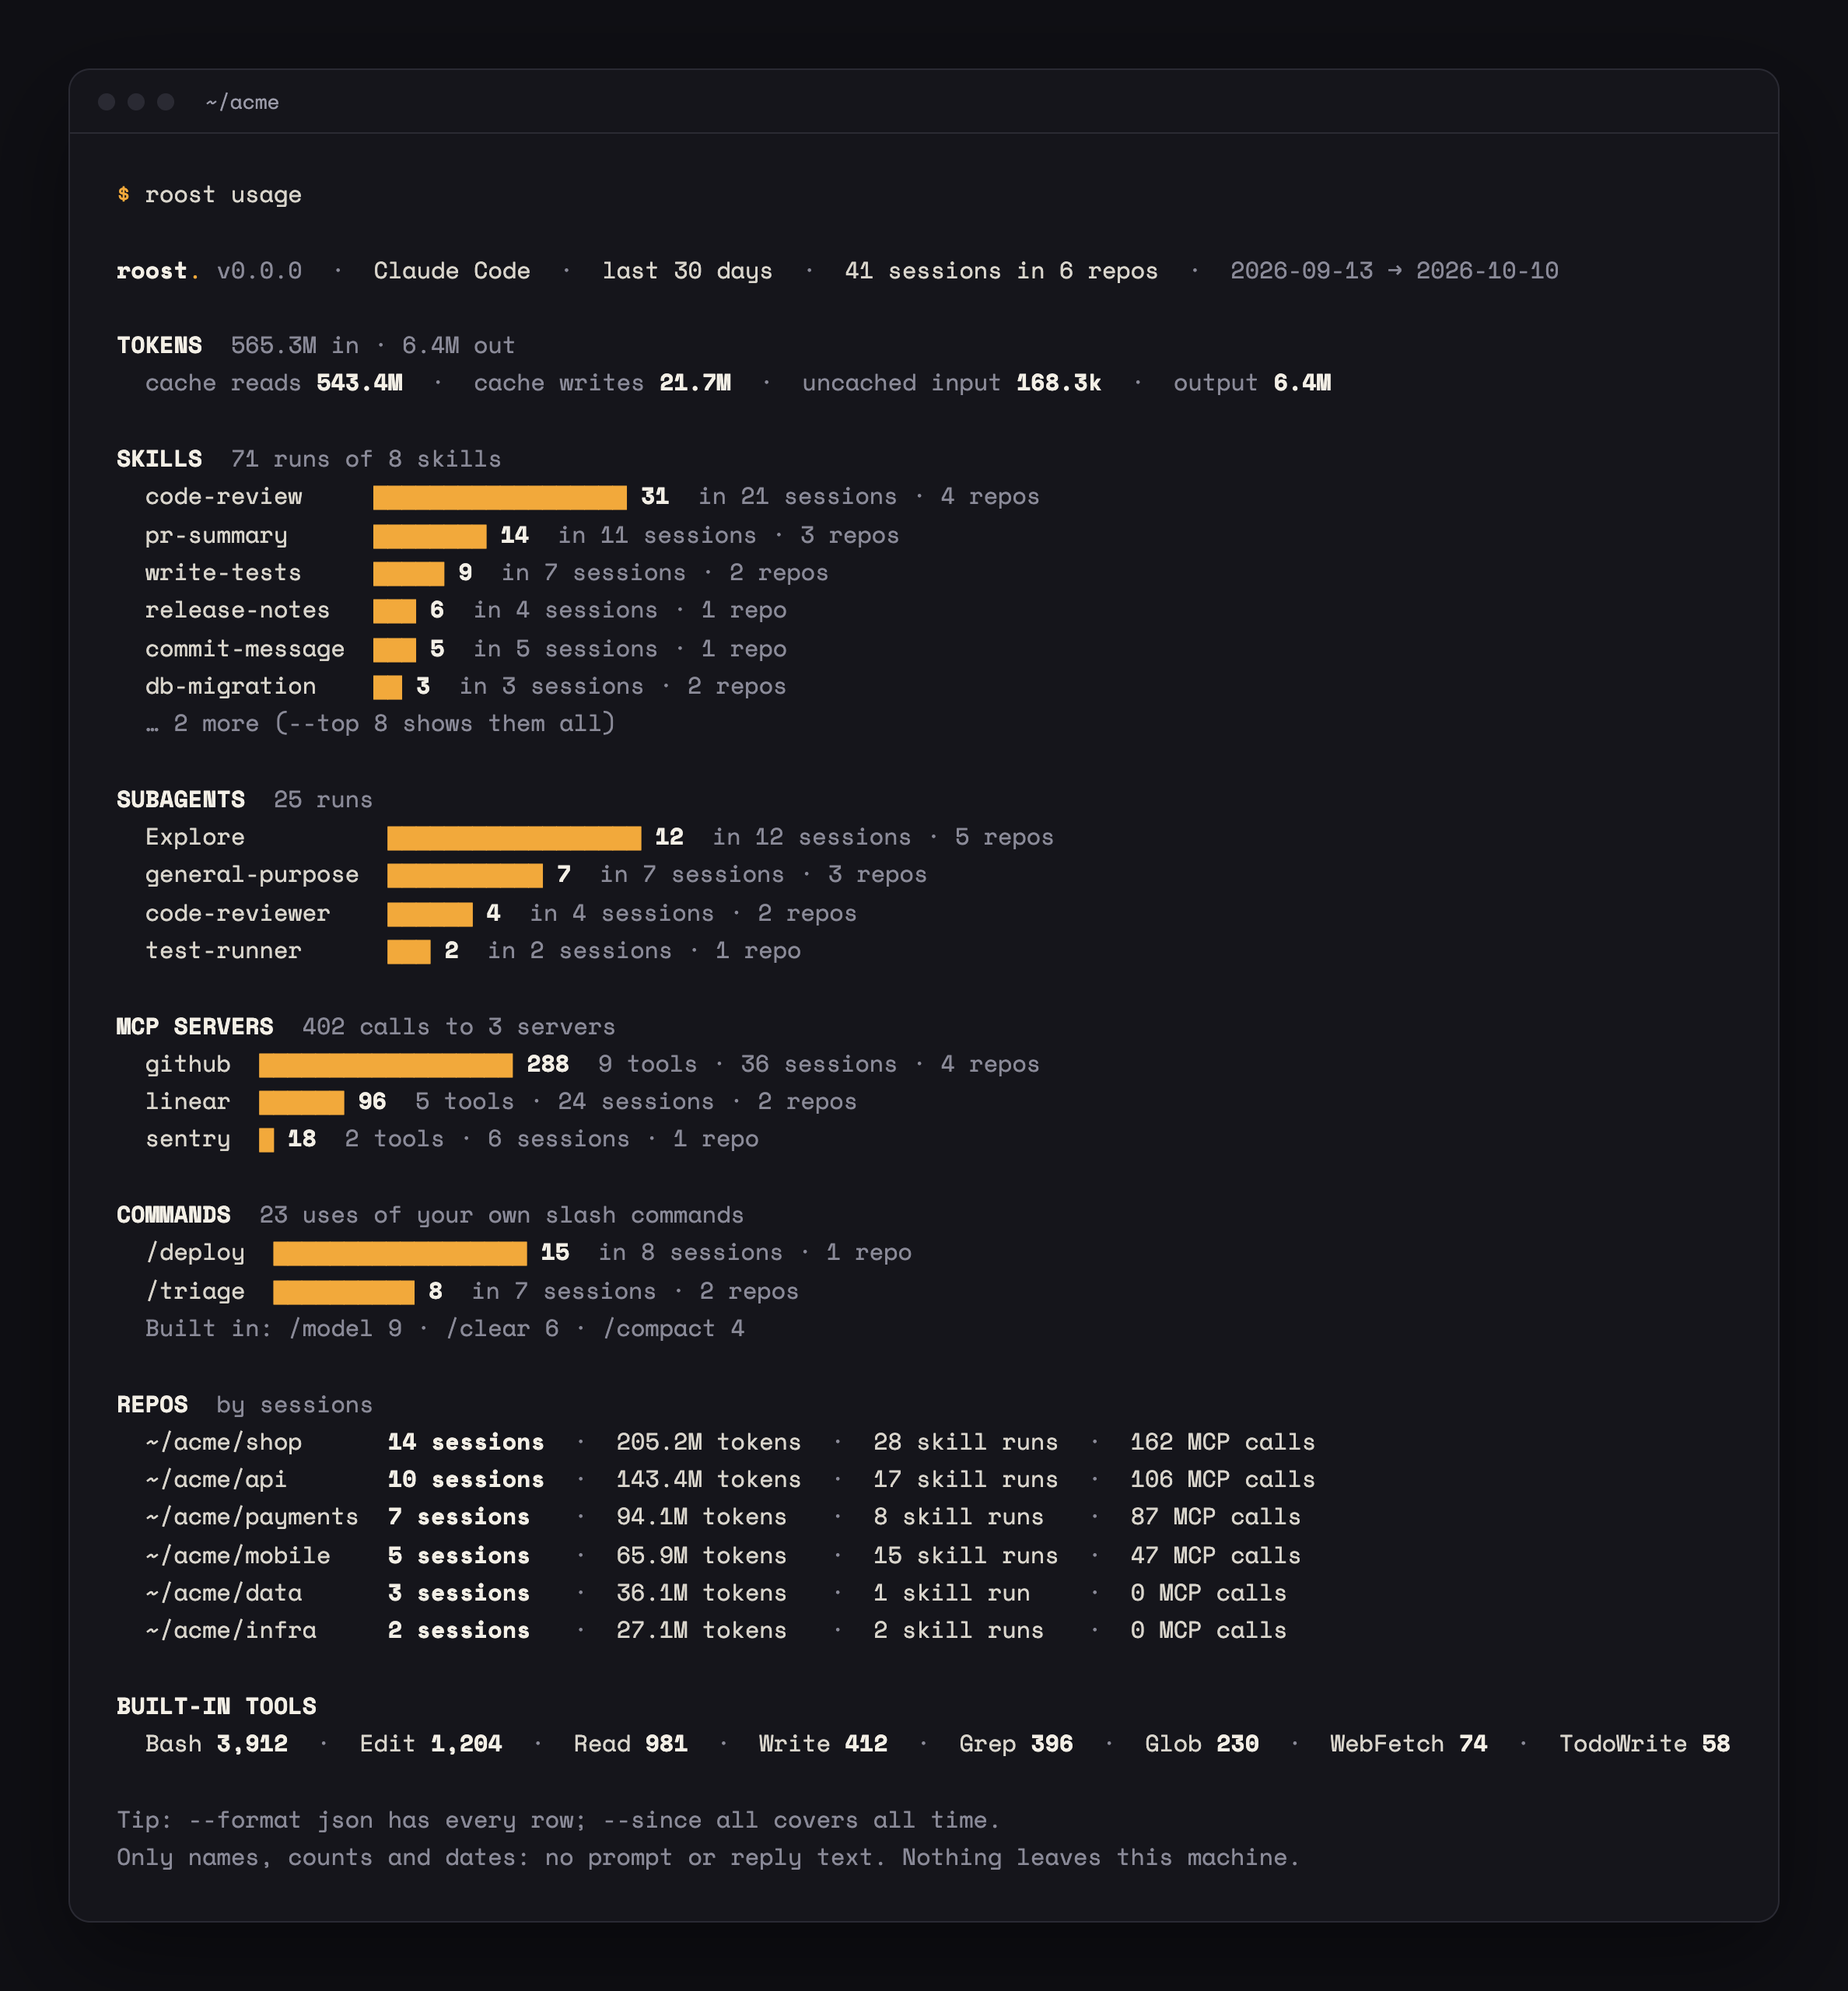
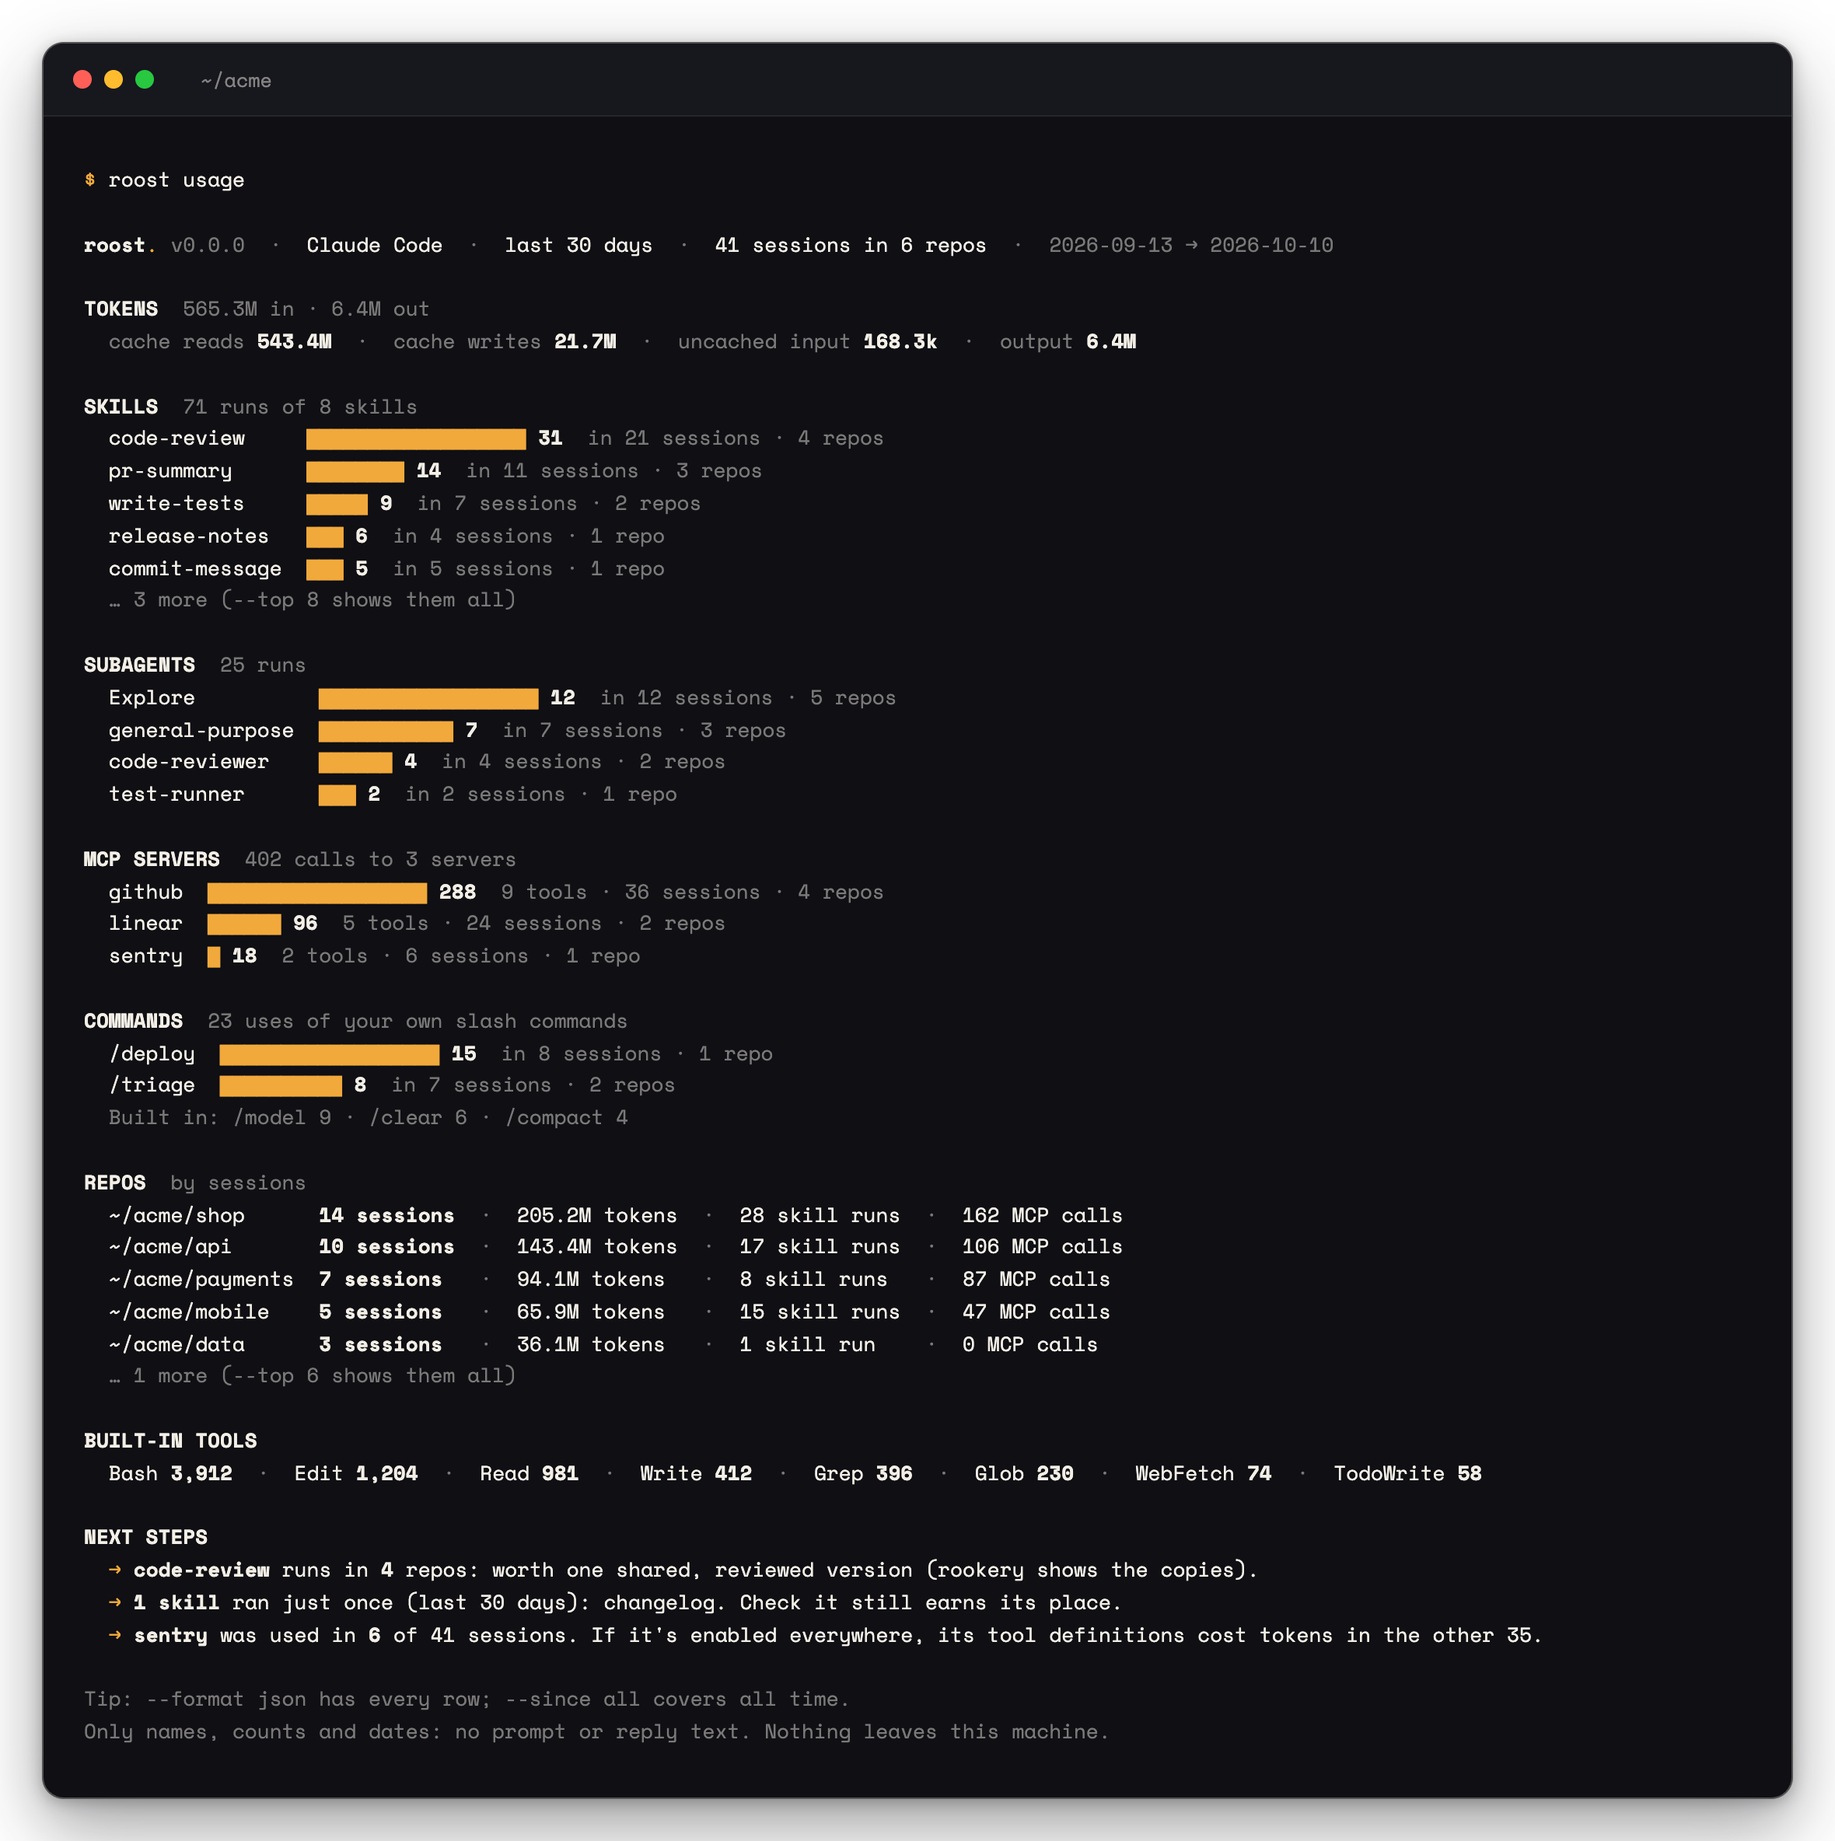
Screenshot in rookery's frame, and next steps in roost usage (#5)
- roost usage ends with NEXT STEPS, like rookery, worked out from the
  counts alone: the skill used in the most repos (one shared version;
  rookery shows the copies), skills that ran just once, and MCP servers
  few sessions used. Tested on the fixture and the demo team.
- terminal.png re-rendered with rookery's recipe, sampled from its PNG:
  transparent background with a soft shadow, ink window, #17171E title
  bar with traffic-light dots, bone text, dim at half opacity, 13px/1.6
  Space Mono, 2360 px wide. It now matches rookery's on GitHub's light
  and dark themes.

Claude-Session: https://claude.ai/code/session_01TzsCMEEmNPqdXjGm4VjKZp

diff --git a/src/report/usage.ts b/src/report/usage.ts
@@ -84,10 +84,38 @@ export function renderUsageTerminal(v: UsageView): string {
     h('BUILT-IN TOOLS');
     out.push('  ' + r.tools.slice(0, 8).map((x) => `${x.name} ${bold(x.count.toLocaleString('en-US'))}`).join(dim('  ·  ')) + (r.tools.length > 8 ? dim('  · …') : ''));
   }
+  const steps = nextSteps(r, v.window, { bold, dim, amber });
+  if (steps.length) {
+    h('NEXT STEPS');
+    for (const step of steps) out.push(`  ${amber('→')} ${step}`);
+  }
   if (r.skipped) out.push('', dim(`Skipped ${count(r.skipped, 'log line')} roost couldn't read.`));
   out.push('', dim('Tip: --format json has every row; --since all covers all time.'));
   out.push(dim('Only names, counts and dates: no prompt or reply text. Nothing leaves this machine.'), '');
   return out.join('\n');
+}
+
+/**
+ * A few plain observations from the counts, like rookery's next steps. Only what the data shows:
+ * the most widely used skill, skills that ran once, and MCP servers few sessions used.
+ */
+export function nextSteps(r: UsageReport, window: string, s: ReturnType<typeof style>): string[] {
+  const { bold, amber } = s;
+  const steps: string[] = [];
+  const shared = r.skills.filter((x) => x.repos >= 3).sort((a, b) => b.repos - a.repos || b.count - a.count)[0];
+  if (shared) {
+    steps.push(`${bold(shared.name)} runs in ${amber(bold(shared.repos))} repos: worth one shared, reviewed version (rookery shows the copies).`);
+  }
+  const once = r.skills.filter((x) => x.count === 1);
+  if (once.length) {
+    const names = once.slice(0, 3).map((x) => x.name).join(', ') + (once.length > 3 ? ` and ${once.length - 3} more` : '');
+    steps.push(`${amber(bold(count(once.length, 'skill')))} ran just once (${window}): ${names}. ${once.length === 1 ? 'Check it still earns its place.' : 'Check they still earn their place.'}`);
+  }
+  const quiet = r.mcp.filter((x) => x.sessions / r.sessions < 0.25).sort((a, b) => a.sessions - b.sessions)[0];
+  if (quiet && r.sessions >= 8) {
+    steps.push(`${bold(quiet.server)} was used in ${amber(bold(quiet.sessions))} of ${r.sessions} sessions. If it's enabled everywhere, its tool definitions cost tokens in the other ${r.sessions - quiet.sessions}.`);
+  }
+  return steps;
 }
 
 export function renderUsageJson(v: UsageView, agent: string): string {

diff --git a/test/demo.test.ts b/test/demo.test.ts
@@ -27,4 +27,9 @@ test('recovers the demo team\'s exact totals from 23k realistic log lines', () =
   assert.equal(out.commands.find((c: { name: string }) => c.name === '/deploy')?.count, 15);
   assert.equal(out.tools.find((t: { name: string }) => t.name === 'Bash')?.count, 3912);
   assert.equal(out.skipped, 0);
+
+  const text = spawnSync(process.execPath, [CLI, 'usage', '--home', home, '--since', 'all'], { encoding: 'utf8', env }).stdout;
+  assert.match(text, /→ code-review runs in 4 repos: worth one shared, reviewed version/);
+  assert.match(text, /→ 1 skill ran just once \(all time\): changelog\. Check it still earns its place\./);
+  assert.match(text, /→ sentry was used in 6 of 41 sessions\. If it's enabled everywhere, its tool definitions cost tokens in the other 35\./);
 });

diff --git a/test/usage.test.ts b/test/usage.test.ts
@@ -148,6 +148,7 @@ test('usage terminal report and an empty window', () => {
   assert.match(r.stdout, /SKILLS\s+4 runs of 3 skills/);
   assert.match(r.stdout, /MCP SERVERS\s+3 calls to 1 server/);
   assert.match(r.stdout, /Built in: \/model 1/);
+  assert.match(r.stdout, /NEXT STEPS\n {2}→ 2 skills ran just once \(since 2026-09-01\): \?\[31mred, pr-summary\. Check they still earn their place\./);
   const empty = run('usage', '--home', mkdtempSync(join(tmpdir(), 'roost-empty-')));
   assert.match(empty.stdout, /Claude Code {2}· {2}last 30 days/);
   assert.match(empty.stdout, /No Claude Code sessions found\./);

diff --git a/CHANGELOG.md b/CHANGELOG.md
@@ -5,6 +5,7 @@ All notable changes to roost are listed here. This project follows [semantic ver
 ## Unreleased
 
 - **`roost usage`** (Claude Code): skills, subagents, MCP servers and tools, and your own slash commands that agents actually ran, with how many sessions and repos used each, and token use per repo. Subagent logs count towards their session; each response's tokens are counted once; Claude Code worktrees fold into their repo. `--since 30d|YYYY-MM-DD|all`, `--top`, `--format json`. Reports carry names, counts and dates only.
+- **Next steps** at the end of `roost usage`, from the counts alone: the skill used in the most repos, skills that ran just once, and MCP servers few sessions used.
 - **Colour** in the terminal, in rookery's style: bold headings, dim detail, amber bars. Off when piped; `--no-color`, `NO_COLOR` and `FORCE_COLOR` are respected.
 - **Demo team**: `scripts/demo-home.mjs` writes a made-up team's logs for screenshots and trying roost.
 - **`roost sources`**: finds Claude Code, Codex and Gemini CLI session logs on this machine and shows how many sessions each has and their date range, without opening any of them. `--format json` and `--home <dir>`.

diff --git a/README.md b/README.md
@@ -19,7 +19,7 @@
 </p>
 
 <p align="center">
-  <img src=".github/assets/terminal.png" width="860" alt="roost usage for a demo team: 41 Claude Code sessions in 6 repos over 30 days, token totals, bars for 8 skills led by code-review with 31 runs, 4 subagent types, 3 MCP servers led by github with 288 calls, the team's own slash commands, and sessions and tokens per repo">
+  <img src=".github/assets/terminal.png" width="860" alt="roost usage for a demo team: 41 Claude Code sessions in 6 repos over 30 days, token totals, bars for skills led by code-review with 31 runs, subagent types, 3 MCP servers led by github with 288 calls, the team's own slash commands, sessions and tokens per repo, and next steps: share code-review, check a skill that ran once, and an MCP server used in 6 of 41 sessions">
 </p>
 
 ---

diff --git a/CONTRIBUTING.md b/CONTRIBUTING.md
@@ -40,7 +40,7 @@ Node 20 or newer.
 
 `node scripts/demo-home.mjs /tmp/acme` writes 41 Claude Code sessions (plus a few Codex and Gemini CLI ones) for a fictional team, dated September to October 2026, so run it with `--since all`. `test/demo.test.ts` checks roost recovers its exact totals.
 
-The images in `.github/assets/` are rendered from `FORCE_COLOR=1 node dist/src/cli.js usage --home /tmp/acme --top 6`. Screenshots and examples only ever use the demo team, never real logs.
+The images in `.github/assets/` are rendered from `FORCE_COLOR=1 node dist/src/cli.js usage --home /tmp/acme --top 5`, in the same frame as rookery's (transparent background, 2360 px wide, 13 px Space Mono). Screenshots and examples only ever use the demo team, never real logs.
 
 ## Pull requests
 
